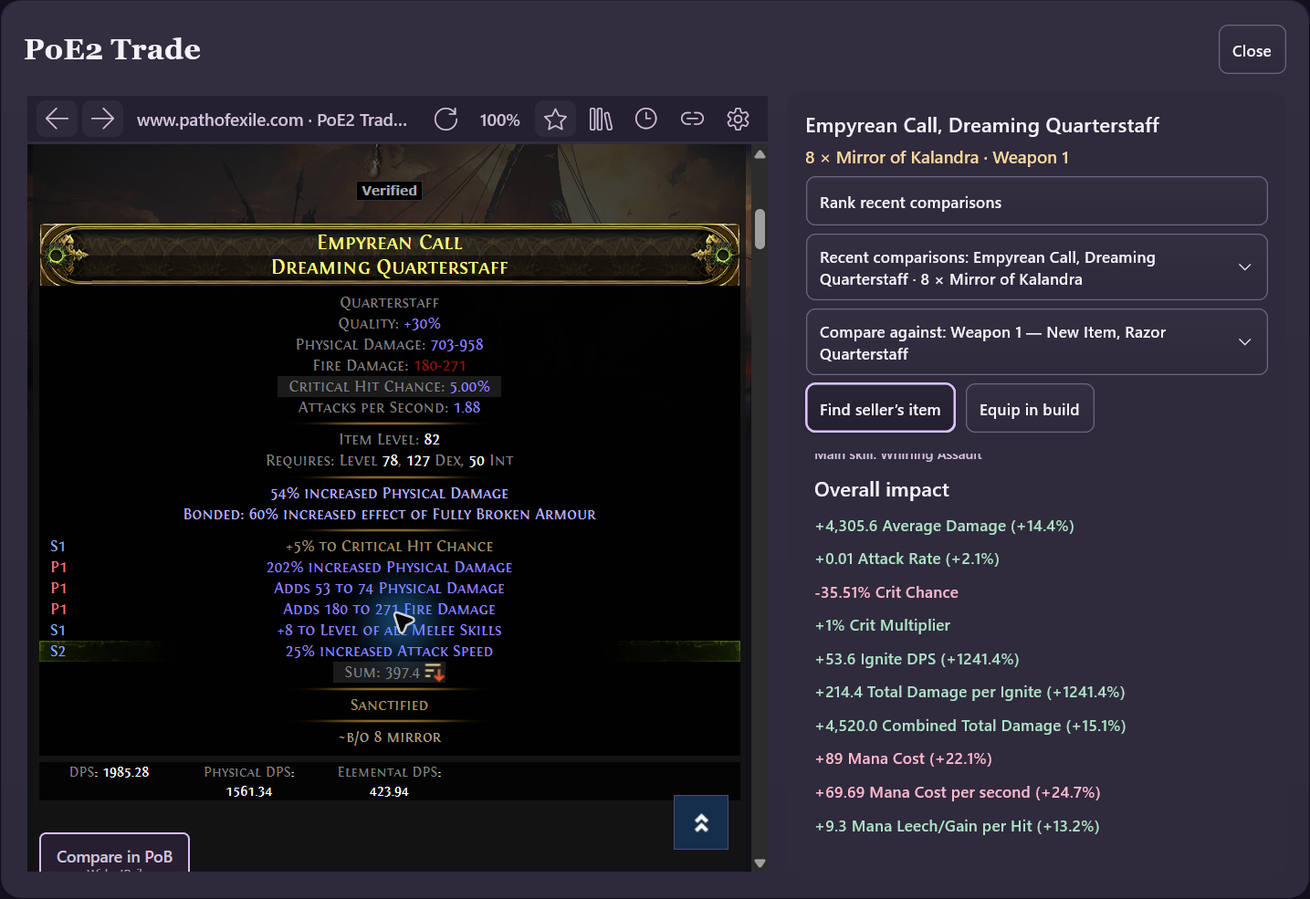
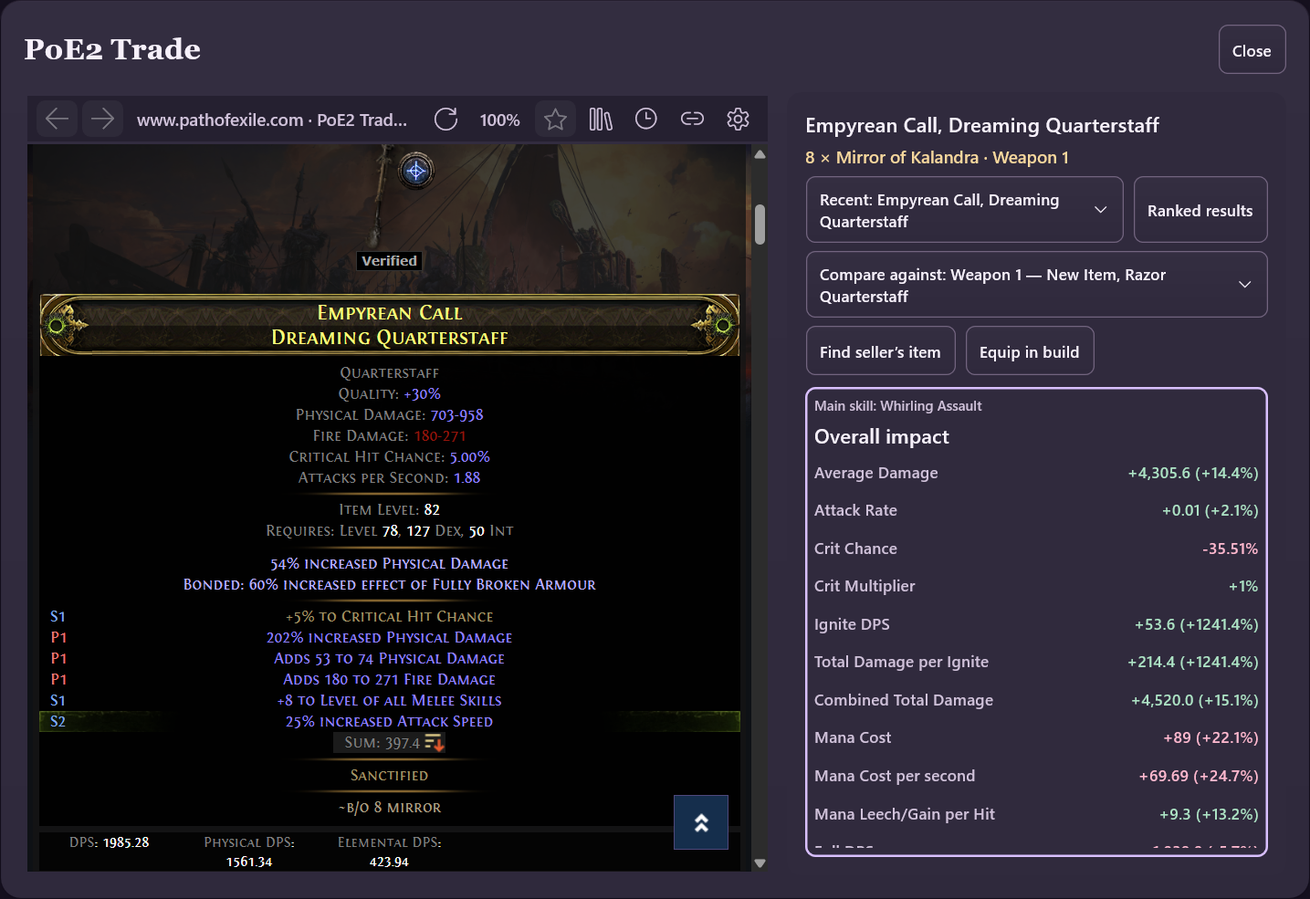
Compact trade rankings and comparison panels

diff --git a/samples/PobCompanion/PobWidget.TradeRanking.cs b/samples/PobCompanion/PobWidget.TradeRanking.cs
@@ -18,13 +18,13 @@ public sealed partial class PobWidget
     private RankedItem[] rankedItems=[];
     private string[] rankingSkipped=[];
     private string rankingSlot="",rankingBaseline="",rankingWeights="",rankingBuild="",rankingSummary="";
-    private bool rankingVisible;
+    private bool rankingVisible, rankingEditing, rankingSkippedExpanded;
     private string rankingSort="strength";
     private CurrencyRateSnapshot? rankingRates;
     private static readonly (string Key,string Label)[] RankingSorts=[("strength","Strongest improvement"),("value","PoB price-adjusted score"),("price","Lowest price")];
     private JsonElement[] rankingSlots=[];
     private string rankingSelected="";
-    private sealed record RankEntry(string Key,string Label,string Summary,string Tone,string Action,bool Selected);
+    private sealed record RankEntry(string Key,string Label,string Price,string Summary,string Tone,string Action,bool Selected);
     private sealed record RankQuery(string Context,RankEntry[] Entries);
     private WidgetIndexedCollection<RankQuery,RankEntry>? rankingCollection;
     private RankQuery rankingQuery=new("",[]);
@@ -123,7 +123,7 @@ public sealed partial class PobWidget
                 rankingSort=finalOrder;rankingRates=ordered.Rates;rankedItems=rows;rankingSkipped=skipped.ToArray();rankingBaseline=baseline;rankingWeights=weights;rankingBuild=documentId??"";
                 if(sortingNotice is not null)ShowFeedback("Price ordering unavailable",sortingNotice,ToastTone.Warning);
                 rankingSummary=$"{rows.Length} ranked · {skipped.Count} skipped · {inputs.Length} of {rankingInputs.Count} loaded evaluated · {timer.Elapsed.TotalSeconds:F1}s";
-                rankingVisible=true;websiteFocus="pob.rank.tools";websiteFocusSequence=++focusRequestSequence;
+                rankingVisible=true;rankingEditing=false;rankingSkippedExpanded=false;websiteFocus="pob.rank.tools";websiteFocusSequence=++focusRequestSequence;
             }
         }
         catch(OperationCanceledException)
@@ -135,7 +135,7 @@ public sealed partial class PobWidget
     private void RestoreRanking(string id)
     {
         ReadTradePreferences();
-        rankingInputs.Clear();rankedItems=[];rankingSkipped=[];rankingVisible=false;rankingBuild=id;rankingBaseline="";rankingSummary="";rankingSelected="";rankingSort="strength";rankingRates=null;
+        rankingInputs.Clear();rankedItems=[];rankingSkipped=[];rankingVisible=false;rankingEditing=false;rankingSkippedExpanded=false;rankingBuild=id;rankingBaseline="";rankingSummary="";rankingSelected="";rankingSort="strength";rankingRates=null;
         try
         {
             var file=new FileInfo(Path.Combine(dataDirectory,id+".ranking.json"));if(!file.Exists||file.Length>5*1024*1024)return;
@@ -174,6 +174,8 @@ public sealed partial class PobWidget
                 lock(gate){rankedItems=sorted.Rows;rankingSort=order;rankingRates=sorted.Rates;}
             },"Sorting evaluated listings…");return true;
         }
+        if(id=="trade-rank-edit"){rankingEditing=!rankingEditing;websiteFocus="pob.rank.tools";websiteFocusSequence=++focusRequestSequence;return true;}
+        if(id=="trade-rank-skipped"){rankingSkippedExpanded=!rankingSkippedExpanded;return true;}
         if(id=="trade-rank-hide"){rankingVisible=false;websiteReview=false;websiteFocus="pob.website.browser";websiteFocusSequence=++focusRequestSequence;return true;}
         if(id=="trade-rank-focus"){websiteFocus="pob.rank.tools";websiteFocusSequence=++focusRequestSequence;return true;}
         if(id=="trade-rank-show"&&HasRanking)
@@ -213,41 +215,57 @@ public sealed partial class PobWidget
     {
         if(stale)return "Build, target or weights changed · evaluate again";
         var score=row.Evaluation.TryGetProperty("scorePercent",out var percent)?$"Weighted change {percent.GetDouble():+0.0;-0.0;0}%":$"PoB score {row.Evaluation.GetProperty("score").GetDouble():0.###}"+(row.Evaluation.TryGetProperty("baselineScore",out var baseline)?$" · Equipped {baseline.GetDouble():0.###}":"");
-        var changes=A(row.Evaluation,"changes").Where(c=>S(c,"stat") is "CombinedDPS" or "Life" or "EnergyShield"&&Math.Abs(c.GetProperty("delta").GetDouble())>=.01).Select(c=>$"{(S(c,"stat")=="CombinedDPS"?"Player DPS":StatLabel(S(c,"stat")))} {c.GetProperty("delta").GetDouble():+0.##;-0.##;0}");
-        return score+" · "+string.Join(" · ",changes);
+        var damage=A(row.Evaluation,"changes").FirstOrDefault(c=>S(c,"stat")=="CombinedDPS");
+        return score+(damage.ValueKind==JsonValueKind.Object?$" · Player DPS {damage.GetProperty("delta").GetDouble():+#,0.##;-#,0.##;0}":"");
     }
     private WidgetElement TradeRankingPanel()
     {
         rankingCollection??=CreateIndexedCollection<RankQuery,RankEntry>("pob.rank.source",rankingQuery,0,new()
         {
             ReadRange=(q,start,count,token)=>ValueTask.FromResult<IReadOnlyList<RankEntry>>(q.Entries.Skip(start).Take(count).ToArray()),ItemKey=e=>new(e.Key),
-            RenderItem=(_,e,c)=>UI.ActionSurface("select",c.Id("row"),e.Label,ActionSurfaceOrientation.Vertical,
-                UI.Text(e.Label,c.Id("title")).Classes("pob-list-title"),UI.Text(e.Summary.Split(" · ",2)[0],c.Id("score")).Classes("pob-small",e.Tone),
-                UI.Text(e.Summary.Contains(" · ",StringComparison.Ordinal)?e.Summary.Split(" · ",2)[1]:"",c.Id("summary")).Classes("pob-small")).Selected(e.Selected).FocusLeft("pob.website.browser").Classes("pob-list-item"),
+            RenderItem=(_,e,c)=>UI.ActionSurface("select",c.Id("row"),e.Label+" · "+e.Price,ActionSurfaceOrientation.Vertical,
+                UI.Grid(c.Id("identity"),[GridTrack.Auto()],[GridTrack.Star(),GridTrack.Auto()],
+                    UI.Text(e.Label,c.Id("title")).Classes("pob-list-title","pob-rank-title"),
+                    UI.Text(e.Price,c.Id("price")).Classes("pob-small","pob-gold").InGrid(column:1)).Spacing(0,8),
+                UI.RichText(c.Id("summary"),
+                    UI.Text(e.Summary.Split(" · Player DPS",2)[0],c.Id("score")).Classes("pob-small","pob-inline",e.Tone),
+                    UI.Text(e.Summary.Contains(" · Player DPS",StringComparison.Ordinal)?" · Player DPS"+e.Summary.Split(" · Player DPS",2)[1]:"",c.Id("damage")).Classes("pob-small","pob-inline","pob-muted"))
+                    .Classes("pob-small","pob-rank-metrics")).Selected(e.Selected).FocusLeft("pob.website.browser").Classes("pob-list-item","pob-rank-item"),
             OnAction=(q,e,a,token)=>{lock(gate){if(!ReferenceEquals(q,rankingQuery)||busy||a.ActionId!="select")return ValueTask.CompletedTask;return OnActionAsync(a with{ActionId=e.Action},token);}}
         });
         var stale=RankingStale;
-        var entries=rankedItems.Select((r,i)=>new RankEntry(r.Candidate.Listing.Id,$"{i+1}. {TradeItemName(r.Candidate.Listing)} · {r.Candidate.Listing.Price}",RankingRowSummary(r,stale),
+        var entries=rankedItems.Select((r,i)=>new RankEntry(r.Candidate.Listing.Id,$"{i+1}. {TradeItemName(r.Candidate.Listing)}",r.Candidate.Listing.Price,RankingRowSummary(r,stale),
             !stale&&r.Evaluation.TryGetProperty("scorePercent",out var p)?p.GetDouble()<0?"pob-life":"pob-green":"pob-muted","trade-rank-select."+r.Index,r.Candidate.Listing.Id==rankingSelected)).ToArray();
         var revision=stale?"stale":rankingWeights+rankingBaseline;
         if(rankingQuery.Context!=revision||!rankingQuery.Entries.SequenceEqual(entries))
         {var same=rankingQuery.Entries.Select(e=>e.Key).SequenceEqual(entries.Select(e=>e.Key));rankingQuery=new(revision,entries);if(same)rankingCollection.UpdateContent(rankingQuery);else rankingCollection.PublishQuery(rankingQuery,entries.Length);}
-        var tools=UI.Stack("pob.rank.tools",Text("Ranked listings","rank.heading","pob-heading"),
+        var controls=new List<WidgetElement>{Text("Ranked listings","rank.heading","pob-heading")};
+        if(rankingEditing)
+        {
+            controls.Add(UI.Stack("pob.rank.setup",
             rankingSlots.Length==0?Text(rankingSlot,"rank.slot","pob-small"):UI.Select("Compare against",rankingSlots.Select((s,i)=>new SelectOption("slot"+i,S(s,"title"),"trade-rank-slot."+i,S(s,"name")==rankingSlot)).ToArray(),"pob.rank.slot").FocusLeft("pob.website.browser").Classes("pob-select"),
             UI.Grid("pob.rank.options",[GridTrack.Auto()],[GridTrack.Star(2),GridTrack.Star()],
                 UI.Select("Priority",TradePriorities.Select(p=>new SelectOption(p.Key,p.Label,"trade-rank-priority."+p.Key,p.Key==tradePriority)).ToArray(),"pob.rank.priority").FocusLeft("pob.website.browser").Classes("pob-select"),
                 UI.Select("Limit",new[]{20,50,100}.Select(n=>new SelectOption("limit"+n,n.ToString(),"trade-rank-limit."+n,n==tradeBatchLimit)).ToArray(),"pob.rank.limit").Classes("pob-select").InGrid(column:1)).Spacing(0,8),
-            UI.Select("Order",RankingSorts.Select(s=>new SelectOption(s.Key,s.Label,"trade-rank-sort."+s.Key,s.Key==rankingSort)).ToArray(),"pob.rank.order").Disabled(rankedItems.Length==0||stale).Classes("pob-select"),
-            UI.Row("pob.rank.actions",Button("Load and evaluate","trade-rank-evaluate","rank.evaluate").FocusLeft("pob.website.browser"),Button("Hide results","trade-rank-hide","rank.hide")).Classes("pob-toolbar"),
-            Text(RankingRateLabel(),"rank.rates","pob-small pob-muted"),
-            Text(stale?"Scores need recalculation for this build, slot or priority.":rankingSummary,"rank.summary","pob-small pob-muted"))
-            .RememberChildFocus(rankingSlots.Length==0?"pob.rank.evaluate":"pob.rank.slot").Classes("pob-buildtools");
-        var list=UI.Stack("pob.rank.list",UI.CollectionList("pob.rank.results",rankingCollection,128,"Evaluated trade listings").Classes("pob-scroll"))
+            UI.Select("Order",RankingSorts.Select(s=>new SelectOption(s.Key,s.Label,"trade-rank-sort."+s.Key,s.Key==rankingSort)).ToArray(),"pob.rank.order").Disabled(rankedItems.Length==0||stale).Classes("pob-select")).Classes("pob-buildtools"));
+            controls.Add(Text(RankingRateLabel(),"rank.rates","pob-small pob-muted"));
+        }
+        else controls.Add(Text($"{rankingSlot} · {TradePriorities.First(p=>p.Key==tradePriority).Label} · up to {tradeBatchLimit}\n{RankingSorts.First(s=>s.Key==rankingSort).Label}","rank.context","pob-small pob-muted"));
+        controls.Add(UI.Row("pob.rank.actions",
+            Button(rankingEditing?"Done":"Edit ranking…","trade-rank-edit","rank.edit").FocusLeft("pob.website.browser"),
+            Button("Evaluate again","trade-rank-evaluate","rank.evaluate")).Classes("pob-toolbar"));
+        var summary=Text(stale?"Scores need recalculation for this build, slot or priority.":rankingSummary,"rank.summary","pob-small pob-muted");
+        if(rankingSkipped.Length>0)
+        {
+            controls.Add(UI.Grid("pob.rank.status",[GridTrack.Auto()],[GridTrack.Star(),GridTrack.Auto()],summary,
+                Button((rankingSkippedExpanded?"Hide ":"")+$"{rankingSkipped.Length} skipped","trade-rank-skipped","rank.skipped-toggle").InGrid(column:1)).Spacing(0,8));
+            if(rankingSkippedExpanded)controls.Add(UI.VerticalScroll("pob.rank.skipped",rankingSkipped.Select((reason,i)=>Text(Limit(reason,600),"rank.skipped."+i,"pob-small pob-muted")).ToArray())
+                .Shortcut(ControllerButton.LeftStick,"trade-rank-focus","Ranking controls").Classes("pob-scroll","pob-rank-skipped"));
+        }
+        else controls.Add(summary);
+        var tools=UI.Stack("pob.rank.tools",controls.ToArray()).RememberChildFocus("pob.rank.edit").Classes("pob-buildtools");
+        var list=UI.Stack("pob.rank.list",UI.CollectionList("pob.rank.results",rankingCollection,76,"Evaluated trade listings").Classes("pob-scroll"))
             .RememberChildFocus("pob.rank.results").Shortcut(ControllerButton.LeftStick,"trade-rank-focus","Ranking controls").Classes("pob-workspace");
-        var children=new List<WidgetElement>{tools,list};
-        if(rankingSkipped.Length>0)children.Add(UI.VerticalScroll("pob.rank.skipped",new WidgetElement[]{Text("Skipped listings","rank.skipped.title","pob-small")}
-            .Concat(rankingSkipped.Select((reason,i)=>Text(Limit(reason,600),"rank.skipped."+i,"pob-small pob-muted"))).ToArray())
-            .Shortcut(ControllerButton.LeftStick,"trade-rank-focus","Ranking controls").Classes("pob-scroll","pob-rank-skipped"));
-        return UI.Stack("pob.rank.panel",children.ToArray()).Classes("pob-panel","pob-tree-main");
+        return UI.Stack("pob.rank.panel",tools,list).Classes("pob-panel","pob-tree-main");
     }
 }

diff --git a/samples/PobCompanion/Tests/TradeWorkflowTests.cs b/samples/PobCompanion/Tests/TradeWorkflowTests.cs
@@ -8,6 +8,13 @@ internal static class TradeWorkflowTests
 {
     internal static async Task RunAsync(int game,string root,string runtime,string adapter,string xml,Action<bool,string> check)
     {
+        foreach(var (text,label,value) in new[]{("+4,305.6 Average Damage (+14.4%)","Average Damage","+4,305.6 (+14.4%)"),("-35.51% Crit Chance","Crit Chance","-35.51%")})
+        {
+            var formatted=new List<WidgetElement>();
+            PobWidget.AddComparisonLine(formatted,JsonSerializer.SerializeToElement(new{text,runs=new[]{new{text,tone="warning"}}}),"test");
+            var row=new WidgetView(formatted.Single()).CreateSnapshot("comparison-format",1).Root;
+            check(row.Kind==ViewNodeKind.Grid&&row.Children![0].Text==label&&row.Children[1].Text==value&&row.Children[1].StyleClasses.Contains("pob-life"),"Compact comparison preserves upstream label, values and effect color: "+label);
+        }
         const string reason="This item does not fit the comparison slot";
         const string luaError=@"...es.poe2-companion\0.1.0\payload\Engine\trade-ranking.lua:23: ";
         check(PobWidget.RankingError(luaError+reason)==reason&&PobWidget.RankingError("C:\\PoB\\trade-ranking.lua:28: Modules/Trade.lua:42: Cannot calculate: unsupported modifier")=="Cannot calculate: unsupported modifier","Skipped errors remove nested Lua paths and preserve useful colons");
@@ -172,12 +179,16 @@ internal static class TradeWorkflowTests
             while(!Nodes(View().Root).Any(n=>n.Id=="pob.rank.summary"&&n.Text?.Contains("ranked")==true))
             {if(DateTime.UtcNow>rankDeadline)throw new TimeoutException("Batch ranking did not finish: "+string.Join(" | ",Nodes(View().Root).Select(n=>n.Text)));await Task.Delay(30);}
             await Idle();
+            check(!Nodes(View().Root).Any(n=>n.Id=="pob.rank.setup"||n.Id=="pob.rank.skipped")&&Nodes(View().Root).Any(n=>n.ActionId=="trade-rank-edit"),"Completed rankings collapse setup and skipped reasons to leave room for results");
+            await Action("trade-rank-skipped");
             check(Nodes(View().Root).Where(n=>n.Id.StartsWith("pob.rank.skipped.",StringComparison.Ordinal)&&n.Id!="pob.rank.skipped.title").Any(n=>n.Text=="Gold Ring: "+reason),"Incompatible listings display item name and readable reason without Lua locations");
+            await Action("trade-rank-skipped");await Action("trade-rank-edit");
             var target=Nodes(View().Root).Single(n=>n.Id=="pob.rank.slot").SelectOptions.Single(o=>o.Label.StartsWith("Ring 2 —",StringComparison.Ordinal));
             await Action(target.ActionId);await Action("trade-rank-evaluate");
             check(loadRequests==2&&requestedLimit is 20 or 50 or 100&&!Nodes(View().Root).Any(n=>n.Id=="pob.rank.help"),"Website and panel actions request bounded automatic loading and omit redundant priority guidance");
             check(Nodes(View().Root).Any(n=>n.Id=="pob.rank.summary"&&n.Text!.StartsWith("2 ranked"))&&ViewSnapshotValidator.Validate(View()).Count==0,"Received batch ranks both listings for an explicit equipment target in a valid native panel");
             await Action("trade-rank-sort.price");
+            await Action("trade-rank-edit");
             check(Nodes(View().Root).Single(n=>n.Id=="pob.rank.order").SelectOptions.Single(o=>o.IsSelected).Label=="Lowest price","Price order changes without another evaluation batch");
             check(loadRequests==2&&Nodes(View().Root).Any(n=>n.Id=="pob.rank.rates"&&n.Text!.Contains("Standard")),"Changing order reuses evaluated candidates and displays the exchange league");
             await Action("trade-rank-sort.value");await Action("trade-rank-sort.strength");

diff --git a/samples/PobCompanion/PobWidget.TradeReview.cs b/samples/PobCompanion/PobWidget.TradeReview.cs
@@ -111,11 +111,15 @@ public sealed partial class PobWidget
     private List<WidgetElement> TradeReviewControls(string prefix)
     {
         var rows=new List<WidgetElement>();
-        if(HasRanking)rows.Add(Button("Back to ranked results","trade-rank-show",prefix+".rank-back").FocusLeft("pob.website.browser"));
-        else if(tradeCandidates.Count>1)rows.Add(Button("Rank recent comparisons","trade-rank-recent").FocusLeft("pob.website.browser"));
+        var rankingAction=HasRanking?Button("Ranked results","trade-rank-show",prefix+".rank-back"):
+            tradeCandidates.Count>1?Button("Rank recent","trade-rank-recent",prefix+".rank-back"):null;
         if(tradeCandidates.Count>1)
-            rows.Add(UI.Select("Recent comparisons",tradeCandidates.Select(c=>new SelectOption(c.Listing.Id,
-                TradeItemName(c.Listing)+" · "+c.Listing.Price,"trade-review-recent."+c.Listing.Id,c.Listing.Id==tradeListing?.Id)).ToArray(),"pob."+prefix+".recent").FocusLeft("pob.website.browser").Classes("pob-select"));
+        {
+            var recent=UI.Select("Recent",tradeCandidates.Select(c=>new SelectOption(c.Listing.Id,
+                TradeItemName(c.Listing),"trade-review-recent."+c.Listing.Id,c.Listing.Id==tradeListing?.Id)).ToArray(),"pob."+prefix+".recent").FocusLeft("pob.website.browser").Classes("pob-select");
+            rows.Add(rankingAction is null?recent:UI.Grid("pob."+prefix+".navigation",[GridTrack.Auto()],[GridTrack.Star(),GridTrack.Auto()],recent,rankingAction.InGrid(column:1)).Spacing(0,8));
+        }
+        else if(rankingAction is not null)rows.Add(rankingAction.FocusLeft("pob.website.browser"));
         if(itemDraftSlots.Length>0)
             rows.Add(UI.Select("Compare against",itemDraftSlots.Select((slot,i)=>new SelectOption("slot"+i,ComparisonSlotLabel(slot),"trade-review-slot."+i,slot==previewSlot)).ToArray(),"pob."+prefix+".slot").FocusLeft("pob.website.browser").Classes("pob-select"));
         rows.Add(UI.Row("pob."+prefix+".actions",
@@ -166,7 +170,7 @@ public sealed partial class PobWidget
         controls.Insert(0,Text(S(item,"name",TradeItemName(tradeListing!)),prefix+".title","pob-heading"));
         controls.Insert(1,Text(tradeListing!.Price+" · "+previewSlot,prefix+".summary","pob-gold"));
         var tools=UI.Stack("pob.website.review.tools",controls.ToArray()).RememberChildFocus("pob."+prefix+".find").Classes("pob-buildtools");
-        var scroll=UI.VerticalScroll("pob.website.review.details",details.ToArray()).Classes("pob-scroll")
+        var scroll=UI.VerticalScroll("pob.website.review.details",details.ToArray()).Classes("pob-scroll","pob-comparison-details")
             .Shortcut(ControllerButton.LeftStick,"trade-review-focus","Comparison controls");
         return UI.Stack("pob.website.review",tools,scroll).RememberChildFocus("pob."+prefix+".find")
             .Shortcut(ControllerButton.X,"trade-review-details","Item details").Classes("pob-panel","pob-tree-main");

diff --git a/samples/PobCompanion/PobWidget.RichText.cs b/samples/PobCompanion/PobWidget.RichText.cs
@@ -97,12 +97,27 @@ public sealed partial class PobWidget
                 var entry=groups[group];var prefix=id+".group."+group;
                 if(groups.Length>1||S(entry,"title")=="Minion")rows.Add(Text(S(entry,"title"),prefix+".title","pob-eyebrow"));
                 var lines=A(entry,"lines");
-                for(var i=0;i<lines.Length;i++)AddFormatted(rows,lines[i],"text","runs",prefix+"."+i);
+                for(var i=0;i<lines.Length;i++)AddComparisonLine(rows,lines[i],prefix+"."+i);
             }
             if(B(after,"mainSkillDisabled"))rows.Add(Text(S(after,"mainSkill")+": "+S(after,"mainSkillDisabledReason"),id+".disabled","pob-life"));
             return;
         }
         rows.Add(Text("Comparison details are unavailable.",id+".unavailable","pob-life"));
+    }
+
+    // Reformat only the upstream display's numeric prefix and optional percent
+    // suffix. Unrecognized explanations remain intact; no stat/effect rules live here.
+    private static readonly Regex ComparisonLine=new(@"^([+-]?[\d,.]+%?) (.+?)( \([+-]?[\d,.]+%\))?$",RegexOptions.CultureInvariant,TimeSpan.FromMilliseconds(100));
+    internal static void AddComparisonLine(List<WidgetElement> rows,JsonElement line,string id)
+    {
+        var match=ComparisonLine.Match(S(line,"text"));
+        if(!match.Success){AddFormatted(rows,line,"text","runs",id);return;}
+        var runs=ReadFormattedRuns(line,"text","runs");
+        var tone=runs.FirstOrDefault(r=>r.Tone!="text")?.Tone??"text";
+        rows.Add(UI.Grid("pob."+id,[GridTrack.Auto()],[GridTrack.Star(),GridTrack.Auto()],
+            Text(match.Groups[2].Value,id+".label","pob-comparison-label"),
+            Text(match.Groups[1].Value+match.Groups[3].Value,id+".change","pob-comparison-value "+ToneClass(tone)).InGrid(column:1))
+            .Spacing(0,12).Classes("pob-comparison-row"));
     }
 
     private static void AddBreakdownRows(List<WidgetElement> content,JsonElement breakdown)

diff --git a/samples/PobCompanion/Tests/WorkStateTests.cs b/samples/PobCompanion/Tests/WorkStateTests.cs
@@ -162,10 +162,17 @@ internal static class WorkStateTests
                 element.ReplaceAttributes(attributes);
                 foreach(var key in new[]{"nodes","strNodes","dexNodes","intNodes"})
                     if(element.Attribute(key) is {} value)value.Value=string.Join(',',value.Value.Split(',').Order(StringComparer.Ordinal));
+                // PoE1 serializes these keyed maps through Lua pairs(), whose
+                // order can change across engine processes. Keep every pair/value.
+                if(element.Name.LocalName=="Spec"&&element.Attribute("masteryEffects") is {} masteries)
+                {
+                    var pairs=System.Text.RegularExpressions.Regex.Matches(masteries.Value,@"\{\d+,\d+\}").Select(m=>m.Value).ToArray();
+                    if(string.Join(',',pairs)==masteries.Value)masteries.Value=string.Join(',',pairs.Order(StringComparer.Ordinal));
+                }
                 if(element.Name.LocalName=="Spec"&&element.Attribute("nodes") is not null)
                     element.Elements("URL").Remove(); // Redundant encoded representation of the same allocation.
             }
-            foreach(var element in root.Descendants().Where(e=>e.Name.LocalName is "Config" or "ConfigSet" or "ItemSet" or "Sockets" or "Calcs").ToArray())
+            foreach(var element in root.Descendants().Where(e=>e.Name.LocalName is "Config" or "ConfigSet" or "ItemSet" or "Sockets" or "Calcs" or "Overrides").ToArray())
                 element.ReplaceNodes(element.Elements().OrderBy(e=>e.Name.ToString(),StringComparer.Ordinal)
                     .ThenBy(e=>(string?)e.Attribute("name")??(string?)e.Attribute("nodeId")??(string?)e.Attribute("id"),StringComparer.Ordinal)
                     .ThenBy(e=>(string?)e.Attribute("subsection"),StringComparer.Ordinal).ToArray());

diff --git a/samples/PobCompanion/PobWidget.Preferences.cs b/samples/PobCompanion/PobWidget.Preferences.cs
@@ -97,7 +97,9 @@ public sealed partial class PobWidget
         {
             ScrollContent=false,
             HeaderActions=UI.Row("pob.website.header-actions",
-                (!reviewing&&CanReplaceTradeComparison
+                (ranking
+                    ?new[]{Button("Return to website","trade-rank-hide","website.rank-hide"),Button("Close","website-close","website.close")}
+                    :!reviewing&&CanReplaceTradeComparison
                     ?new[]{Button("Show comparison","trade-review-show","website.review-shortcut"),Button("Close","website-close","website.close")}
                     :new[]{Button("Close","website-close","website.close")}).Cast<WidgetElement>().ToArray()).Classes("pob-toolbar")
         });

diff --git a/samples/PobCompanion/screenshots/README.md b/samples/PobCompanion/screenshots/README.md
@@ -13,9 +13,9 @@ The PoE2 planning build is the **Late game** loadout from [Ghost Activity's Mart
 | [configuration.png](configuration.png) | Configuration categories with optional explanations from PoB. |
 | [import.png](import.png) | Build library, import destinations, website shortcuts and browser preference. |
 | [trade-comparison.png](trade-comparison.png) | Official PoE2 listing beside calculated changes for the selected equipment slot; account header scrolled out of view. |
-| [trade-ranking.png](trade-ranking.png) | A batch shortlist using selected build weights, with unsupported-item reasons shown separately. |
+| [trade-ranking.png](trade-ranking.png) | Six complete saved candidates visible together, compact ranking controls and collapsed skipped-item reasons. |
 
-The trade examples use the same Martial Artist build and real historical Standard listings on GGG's official site. The captured batch evaluated 20 loaded candidates: eight were ranked and twelve were skipped because the pinned engine could not calculate their modifiers. The timing shown is one local run, not a general performance claim. **Strongest improvement** is selected, so the displayed prices do not affect the order. No item was purchased or equipped for these captures.
+The trade examples use the same Martial Artist build and real historical Standard listings on GGG's official site. The saved shortlist came from a batch of 20 loaded candidates: eight were ranked and twelve were skipped because the pinned engine could not calculate their modifiers. **Strongest improvement** is selected, so the displayed prices do not affect the order. No item was purchased or equipped for these captures.
 
 The PoE1 **Jewel planning example** is a synthetic development fixture, separate from Ghost Activity's guide. It searches Lethal Pride seeds at Arsenal of Vengeance (socket 2491), with total Strength weighted at 1 and scoring not restricted to allocated nodes. Its 8,001 matching seeds and scores come from PoB's finder; the score is not total build DPS. The fixture is not a recommended or complete character build.
 

diff --git a/samples/PobCompanion/README.md b/samples/PobCompanion/README.md
@@ -29,7 +29,7 @@ Native WidgetRail captures from 17 October 2026 in Velvet Dusk. The PoE2 plannin
 **Compare while browsing.** The official listing stays beside PoB's calculated gains and losses. The equipment target is explicit; comparing does not equip or buy the item.
 ![Trade listing beside its PoB comparison](screenshots/trade-comparison.png)
 
-**Rank a batch.** The shortlist identifies the target, weights, limit and order. Unsupported items stay visible in the skipped list. These historical listings and prices are examples, not purchase recommendations.
+**Rank a batch.** The shortlist identifies the target, weights, limit and order. Completed rankings collapse setup under **Edit ranking…**; weighted change and Player DPS share a line, and skipped reasons expand on request. These historical listings and prices are examples, not purchase recommendations.
 ![Ranked trade listings and explicit skipped-item reasons](screenshots/trade-ranking.png)
 
 ## Using a build
